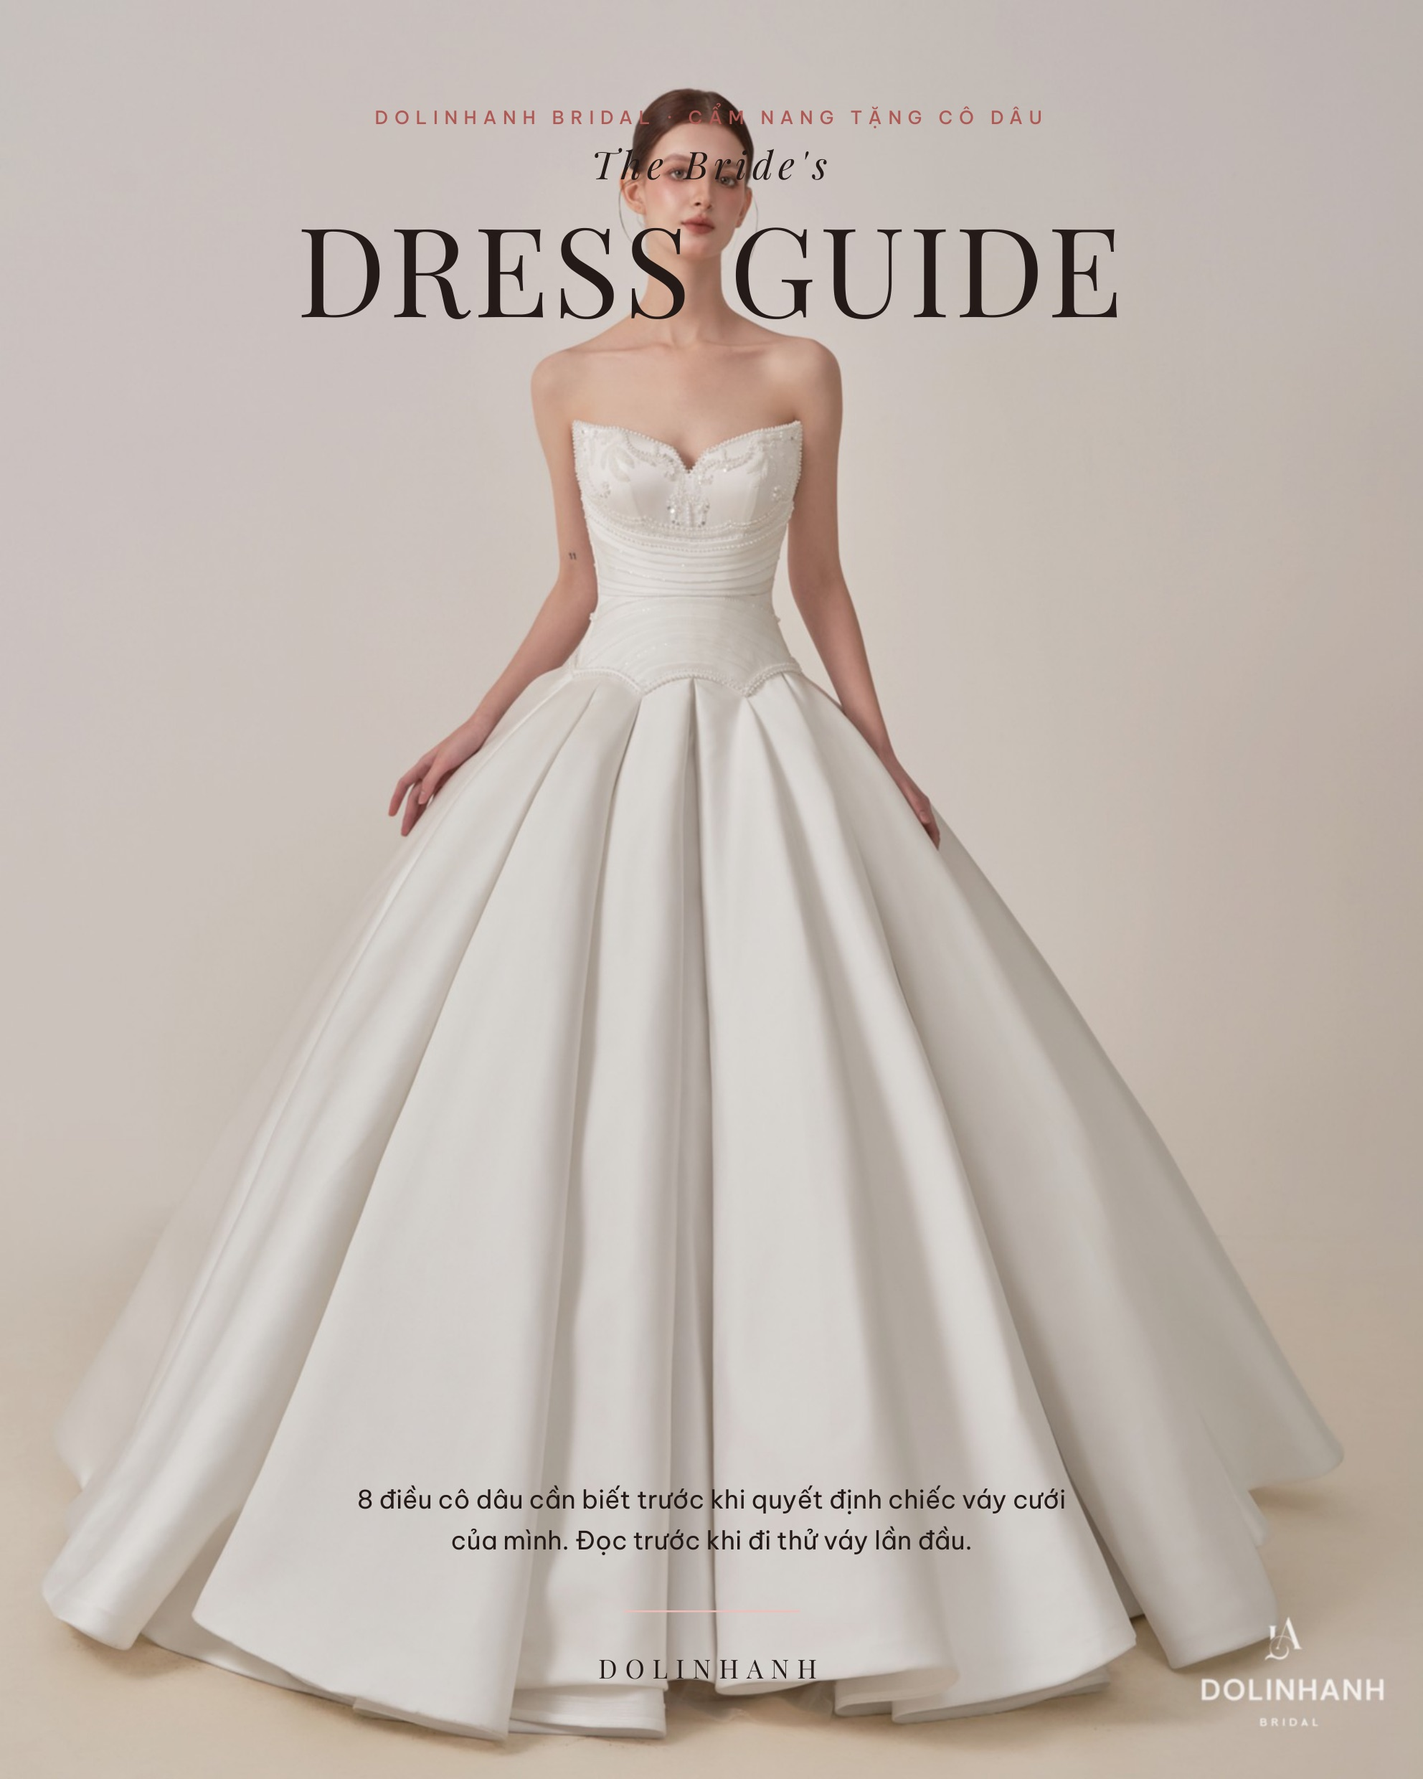
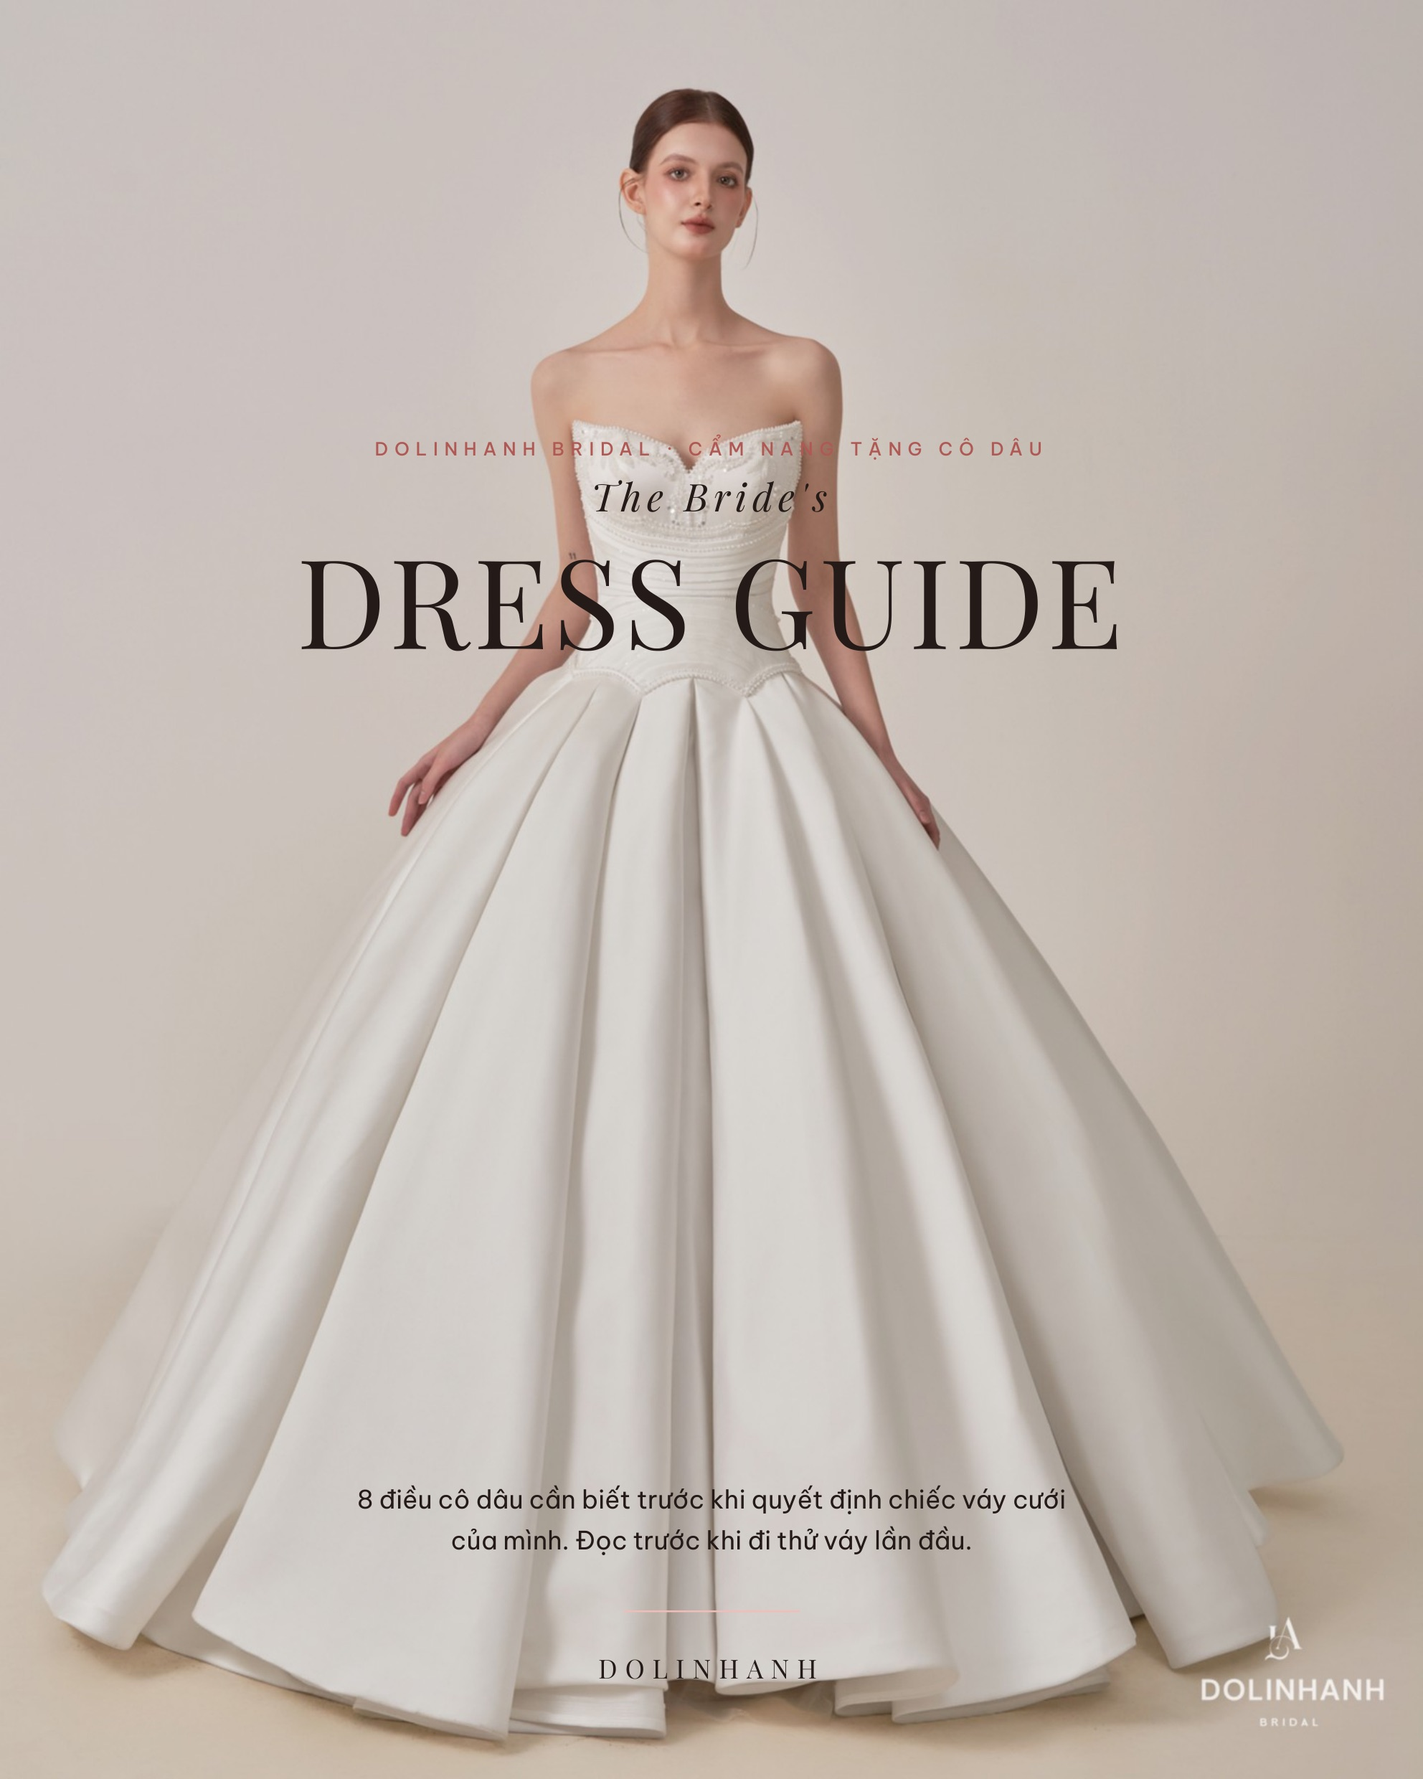
Ebook: bia - day khoi chu xuong duoi cam, khong de len mat co dau (ca A4 va dien thoai) (v y290931)

diff --git a/dress-guide.html b/dress-guide.html
@@ -4,7 +4,7 @@
 <meta charset="utf-8">
 <meta name="viewport" content="width=device-width,initial-scale=1">
 <meta name="description" content="Cẩm nang tặng cô dâu: 7 điều cần biết trước khi chọn váy cưới — Dolinhanh Bridal.">
-<script>window.__ANH__=["dress-guide/t01.jpg?v=y290755", "dress-guide/t02.jpg?v=y290755", "dress-guide/t03.jpg?v=y290755", "dress-guide/t04.jpg?v=y290755", "dress-guide/t05.jpg?v=y290755", "dress-guide/t06.jpg?v=y290755", "dress-guide/t07.jpg?v=y290755", "dress-guide/t08.jpg?v=y290755", "dress-guide/t09.jpg?v=y290755", "dress-guide/t10.jpg?v=y290755", "dress-guide/t11.jpg?v=y290755", "dress-guide/t12.jpg?v=y290755", "dress-guide/t13.jpg?v=y290755", "dress-guide/t14.jpg?v=y290755", "dress-guide/t15.jpg?v=y290755", "dress-guide/t16.jpg?v=y290755", "dress-guide/t17.jpg?v=y290755", "dress-guide/t18.jpg?v=y290755", "dress-guide/t19.jpg?v=y290755", "dress-guide/t20.jpg?v=y290755", "dress-guide/t21.jpg?v=y290755", "dress-guide/t22.jpg?v=y290755", "dress-guide/t23.jpg?v=y290755", "dress-guide/t24.jpg?v=y290755", "dress-guide/t25.jpg?v=y290755", "dress-guide/t26.jpg?v=y290755", "dress-guide/t27.jpg?v=y290755"];window.__ANH_DT__=["dress-guide-dt/t001.jpg?v=y290755", "dress-guide-dt/t002.jpg?v=y290755", "dress-guide-dt/t003.jpg?v=y290755", "dress-guide-dt/t004.jpg?v=y290755", "dress-guide-dt/t005.jpg?v=y290755", "dress-guide-dt/t006.jpg?v=y290755", "dress-guide-dt/t007.jpg?v=y290755", "dress-guide-dt/t008.jpg?v=y290755", "dress-guide-dt/t009.jpg?v=y290755", "dress-guide-dt/t010.jpg?v=y290755", "dress-guide-dt/t011.jpg?v=y290755", "dress-guide-dt/t012.jpg?v=y290755", "dress-guide-dt/t013.jpg?v=y290755", "dress-guide-dt/t014.jpg?v=y290755", "dress-guide-dt/t015.jpg?v=y290755", "dress-guide-dt/t016.jpg?v=y290755", "dress-guide-dt/t017.jpg?v=y290755", "dress-guide-dt/t018.jpg?v=y290755", "dress-guide-dt/t019.jpg?v=y290755", "dress-guide-dt/t020.jpg?v=y290755", "dress-guide-dt/t021.jpg?v=y290755", "dress-guide-dt/t022.jpg?v=y290755", "dress-guide-dt/t023.jpg?v=y290755", "dress-guide-dt/t024.jpg?v=y290755", "dress-guide-dt/t025.jpg?v=y290755", "dress-guide-dt/t026.jpg?v=y290755", "dress-guide-dt/t027.jpg?v=y290755", "dress-guide-dt/t028.jpg?v=y290755", "dress-guide-dt/t029.jpg?v=y290755", "dress-guide-dt/t030.jpg?v=y290755", "dress-guide-dt/t031.jpg?v=y290755", "dress-guide-dt/t032.jpg?v=y290755", "dress-guide-dt/t033.jpg?v=y290755", "dress-guide-dt/t034.jpg?v=y290755", "dress-guide-dt/t035.jpg?v=y290755", "dress-guide-dt/t036.jpg?v=y290755", "dress-guide-dt/t037.jpg?v=y290755", "dress-guide-dt/t038.jpg?v=y290755", "dress-guide-dt/t039.jpg?v=y290755", "dress-guide-dt/t040.jpg?v=y290755", "dress-guide-dt/t041.jpg?v=y290755", "dress-guide-dt/t042.jpg?v=y290755", "dress-guide-dt/t043.jpg?v=y290755", "dress-guide-dt/t044.jpg?v=y290755", "dress-guide-dt/t045.jpg?v=y290755", "dress-guide-dt/t046.jpg?v=y290755", "dress-guide-dt/t047.jpg?v=y290755", "dress-guide-dt/t048.jpg?v=y290755", "dress-guide-dt/t049.jpg?v=y290755"];window.__TI_DT__=1.777;window.__DIEM_DT__=[{"nhan": "Đọc vị bản thân", "ten": "Làm bài trắc nghiệm tại đây", "mo": "", "quiz": true, "p": 6, "x": 0.2713, "y": 0.1401, "w": 0.4323, "h": 0.0265}, {"nhan": "Chuẩn bị trước buổi thử", "ten": "Đồ lót nào mặc được?", "mo": "Nguyên tắc chung: màu nude, không quai, không gọng to, không đường viền. Bốn kiểu trong hình đều dùng được cho gần như mọi mẫu váy. Phần lớn váy cưới đã có corset nâng và mút đệm ngực khâu sẵn — nhiều cô dâu chỉ mặc quần lót nude là đủ.", "p": 10, "x": 0.213, "y": 0.2374, "w": 0.2757, "h": 0.0278, "toi": 12, "anh": "dress-guide/hs-dolot.jpg?v=y290755"}, {"nhan": "Chuẩn bị trước buổi thử", "ten": "Ngày cưới nên mang mấy đôi?", "mo": "Ba đôi là đủ cho mọi tình huống. Đế bánh mì đi trong váy xoè — tùng váy che kín dép, đứng cả buổi không mỏi chân. Cao gót cho những mẫu hở chân như đuôi cá hay xẻ tà, gót 5–7cm là vừa. Và một đôi đế thấp để trong phòng chờ, khi chân đã mỏi thì thay ra.", "p": 10, "x": 0.138, "y": 0.3438, "w": 0.7211, "h": 0.0571, "toi": 14, "anh": "dress-guide/hs-giay.jpg?v=y290755"}, {"nhan": "Chuẩn bị trước buổi thử", "ten": "Vì sao lại là 5 mẫu?", "mo": "Năm mẫu vừa đủ để so bốn dáng cơ bản và thêm một mẫu “lạ” cho biết, mà không loạn. Gửi trước danh sách cho shop để váy được treo sẵn — đỡ mất ba mươi phút đầu buổi chỉ để đi tìm váy.", "p": 10, "x": 0.5176, "y": 0.6563, "w": 0.3832, "h": 0.0278}, {"nhan": "Bước tiếp theo", "ten": "Cẩm nang cưới — 99.000đ", "mo": "Năm mươi tám trang, sáu chặng, mỗi chặng một màu và có ảnh riêng. Mở đầu bằng bài trắc nghiệm tính cách theo DISC cho cả hai người, rồi tới 30 câu hai người phải hỏi nhau, hai gia đình, sáu tháng chuẩn bị (gồm trọn phần chọn váy), ngày cưới, và phần sau đám cưới.", "lien": "https://dolinhanh-bridal.github.io/web-thu/mua-planner.html", "nutChu": "Xem thử vài trang", "p": 48, "x": 0.1372, "y": 0.4388, "w": 0.2862, "h": 0.1902, "anh": "dress-guide/hs-planner.jpg?v=y290755"}, {"nhan": "Bước tiếp theo", "ten": "Nhắn Zalo để nhận file", "mo": "Chuyển khoản xong, bạn nhắn ảnh chụp màn hình tới Zalo 035 995 0588. Dolinhanh gửi lại file PDF và đường dẫn đọc trên điện thoại ngay trong ngày.", "lien": "https://zalo.me/0359950588", "nutChu": "Mở Zalo 035 995 0588", "p": 48, "x": 0.3828, "y": 0.7382, "w": 0.2156, "h": 0.0251}];window.__DIEM__=[{"nhan": "Đọc vị bản thân", "ten": "Làm bài trắc nghiệm tại đây", "mo": "", "quiz": true, "p": 5, "x": 0.2013, "y": 0.153, "w": 0.2397, "h": 0.0207}, {"nhan": "Chuẩn bị trước buổi thử", "ten": "Đồ lót nào mặc được?", "mo": "Nguyên tắc chung: màu nude, không quai, không gọng to, không đường viền. Bốn kiểu trong hình đều dùng được cho gần như mọi mẫu váy. Phần lớn váy cưới đã có corset nâng và mút đệm ngực khâu sẵn — nhiều cô dâu chỉ mặc quần lót nude là đủ.", "p": 7, "x": 0.1707, "y": 0.2032, "w": 0.1469, "h": 0.0211, "toi": 8, "anh": "dress-guide/hs-dolot.jpg?v=y290755"}, {"nhan": "Chuẩn bị trước buổi thử", "ten": "Ngày cưới nên mang mấy đôi?", "mo": "Ba đôi là đủ cho mọi tình huống. Đế bánh mì đi trong váy xoè — tùng váy che kín dép, đứng cả buổi không mỏi chân. Cao gót cho những mẫu hở chân như đuôi cá hay xẻ tà, gót 5–7cm là vừa. Và một đôi đế thấp để trong phòng chờ, khi chân đã mỏi thì thay ra.", "p": 7, "x": 0.2229, "y": 0.2616, "w": 0.4041, "h": 0.0211, "toi": 9, "anh": "dress-guide/hs-giay.jpg?v=y290755"}, {"nhan": "Chuẩn bị trước buổi thử", "ten": "Vì sao lại là 5 mẫu?", "mo": "Năm mẫu vừa đủ để so bốn dáng cơ bản và thêm một mẫu “lạ” cho biết, mà không loạn. Gửi trước danh sách cho shop để váy được treo sẵn — đỡ mất ba mươi phút đầu buổi chỉ để đi tìm váy.", "p": 7, "x": 0.333, "y": 0.4108, "w": 0.2042, "h": 0.0211}, {"nhan": "Bước tiếp theo", "ten": "Cẩm nang cưới — 99.000đ", "mo": "Năm mươi tám trang, sáu chặng, mỗi chặng một màu và có ảnh riêng. Mở đầu bằng bài trắc nghiệm tính cách theo DISC cho cả hai người, rồi tới 30 câu hai người phải hỏi nhau, hai gia đình, sáu tháng chuẩn bị (gồm trọn phần chọn váy), ngày cưới, và phần sau đám cưới.", "lien": "https://dolinhanh-bridal.github.io/web-thu/mua-planner.html", "nutChu": "Xem thử vài trang", "p": 26, "x": 0.1248, "y": 0.7732, "w": 0.1525, "h": 0.1442, "anh": "dress-guide/hs-planner.jpg?v=y290755"}, {"nhan": "Bước tiếp theo", "ten": "Nhắn Zalo để nhận file", "mo": "Chuyển khoản xong, bạn nhắn ảnh chụp màn hình tới Zalo 035 995 0588. Dolinhanh gửi lại file PDF và đường dẫn đọc trên điện thoại ngay trong ngày.", "lien": "https://zalo.me/0359950588", "nutChu": "Mở Zalo 035 995 0588", "p": 26, "x": 0.3035, "y": 0.858, "w": 0.1149, "h": 0.0191}];</script>
+<script>window.__ANH__=["dress-guide/t01.jpg?v=y290931", "dress-guide/t02.jpg?v=y290931", "dress-guide/t03.jpg?v=y290931", "dress-guide/t04.jpg?v=y290931", "dress-guide/t05.jpg?v=y290931", "dress-guide/t06.jpg?v=y290931", "dress-guide/t07.jpg?v=y290931", "dress-guide/t08.jpg?v=y290931", "dress-guide/t09.jpg?v=y290931", "dress-guide/t10.jpg?v=y290931", "dress-guide/t11.jpg?v=y290931", "dress-guide/t12.jpg?v=y290931", "dress-guide/t13.jpg?v=y290931", "dress-guide/t14.jpg?v=y290931", "dress-guide/t15.jpg?v=y290931", "dress-guide/t16.jpg?v=y290931", "dress-guide/t17.jpg?v=y290931", "dress-guide/t18.jpg?v=y290931", "dress-guide/t19.jpg?v=y290931", "dress-guide/t20.jpg?v=y290931", "dress-guide/t21.jpg?v=y290931", "dress-guide/t22.jpg?v=y290931", "dress-guide/t23.jpg?v=y290931", "dress-guide/t24.jpg?v=y290931", "dress-guide/t25.jpg?v=y290931", "dress-guide/t26.jpg?v=y290931", "dress-guide/t27.jpg?v=y290931"];window.__ANH_DT__=["dress-guide-dt/t001.jpg?v=y290931", "dress-guide-dt/t002.jpg?v=y290931", "dress-guide-dt/t003.jpg?v=y290931", "dress-guide-dt/t004.jpg?v=y290931", "dress-guide-dt/t005.jpg?v=y290931", "dress-guide-dt/t006.jpg?v=y290931", "dress-guide-dt/t007.jpg?v=y290931", "dress-guide-dt/t008.jpg?v=y290931", "dress-guide-dt/t009.jpg?v=y290931", "dress-guide-dt/t010.jpg?v=y290931", "dress-guide-dt/t011.jpg?v=y290931", "dress-guide-dt/t012.jpg?v=y290931", "dress-guide-dt/t013.jpg?v=y290931", "dress-guide-dt/t014.jpg?v=y290931", "dress-guide-dt/t015.jpg?v=y290931", "dress-guide-dt/t016.jpg?v=y290931", "dress-guide-dt/t017.jpg?v=y290931", "dress-guide-dt/t018.jpg?v=y290931", "dress-guide-dt/t019.jpg?v=y290931", "dress-guide-dt/t020.jpg?v=y290931", "dress-guide-dt/t021.jpg?v=y290931", "dress-guide-dt/t022.jpg?v=y290931", "dress-guide-dt/t023.jpg?v=y290931", "dress-guide-dt/t024.jpg?v=y290931", "dress-guide-dt/t025.jpg?v=y290931", "dress-guide-dt/t026.jpg?v=y290931", "dress-guide-dt/t027.jpg?v=y290931", "dress-guide-dt/t028.jpg?v=y290931", "dress-guide-dt/t029.jpg?v=y290931", "dress-guide-dt/t030.jpg?v=y290931", "dress-guide-dt/t031.jpg?v=y290931", "dress-guide-dt/t032.jpg?v=y290931", "dress-guide-dt/t033.jpg?v=y290931", "dress-guide-dt/t034.jpg?v=y290931", "dress-guide-dt/t035.jpg?v=y290931", "dress-guide-dt/t036.jpg?v=y290931", "dress-guide-dt/t037.jpg?v=y290931", "dress-guide-dt/t038.jpg?v=y290931", "dress-guide-dt/t039.jpg?v=y290931", "dress-guide-dt/t040.jpg?v=y290931", "dress-guide-dt/t041.jpg?v=y290931", "dress-guide-dt/t042.jpg?v=y290931", "dress-guide-dt/t043.jpg?v=y290931", "dress-guide-dt/t044.jpg?v=y290931", "dress-guide-dt/t045.jpg?v=y290931", "dress-guide-dt/t046.jpg?v=y290931", "dress-guide-dt/t047.jpg?v=y290931", "dress-guide-dt/t048.jpg?v=y290931", "dress-guide-dt/t049.jpg?v=y290931"];window.__TI_DT__=1.777;window.__DIEM_DT__=[{"nhan": "Đọc vị bản thân", "ten": "Làm bài trắc nghiệm tại đây", "mo": "", "quiz": true, "p": 6, "x": 0.2713, "y": 0.1401, "w": 0.4323, "h": 0.0265}, {"nhan": "Chuẩn bị trước buổi thử", "ten": "Đồ lót nào mặc được?", "mo": "Nguyên tắc chung: màu nude, không quai, không gọng to, không đường viền. Bốn kiểu trong hình đều dùng được cho gần như mọi mẫu váy. Phần lớn váy cưới đã có corset nâng và mút đệm ngực khâu sẵn — nhiều cô dâu chỉ mặc quần lót nude là đủ.", "p": 10, "x": 0.213, "y": 0.2374, "w": 0.2757, "h": 0.0278, "toi": 12, "anh": "dress-guide/hs-dolot.jpg?v=y290931"}, {"nhan": "Chuẩn bị trước buổi thử", "ten": "Ngày cưới nên mang mấy đôi?", "mo": "Ba đôi là đủ cho mọi tình huống. Đế bánh mì đi trong váy xoè — tùng váy che kín dép, đứng cả buổi không mỏi chân. Cao gót cho những mẫu hở chân như đuôi cá hay xẻ tà, gót 5–7cm là vừa. Và một đôi đế thấp để trong phòng chờ, khi chân đã mỏi thì thay ra.", "p": 10, "x": 0.138, "y": 0.3438, "w": 0.7211, "h": 0.0571, "toi": 14, "anh": "dress-guide/hs-giay.jpg?v=y290931"}, {"nhan": "Chuẩn bị trước buổi thử", "ten": "Vì sao lại là 5 mẫu?", "mo": "Năm mẫu vừa đủ để so bốn dáng cơ bản và thêm một mẫu “lạ” cho biết, mà không loạn. Gửi trước danh sách cho shop để váy được treo sẵn — đỡ mất ba mươi phút đầu buổi chỉ để đi tìm váy.", "p": 10, "x": 0.5176, "y": 0.6563, "w": 0.3832, "h": 0.0278}, {"nhan": "Bước tiếp theo", "ten": "Cẩm nang cưới — 99.000đ", "mo": "Năm mươi tám trang, sáu chặng, mỗi chặng một màu và có ảnh riêng. Mở đầu bằng bài trắc nghiệm tính cách theo DISC cho cả hai người, rồi tới 30 câu hai người phải hỏi nhau, hai gia đình, sáu tháng chuẩn bị (gồm trọn phần chọn váy), ngày cưới, và phần sau đám cưới.", "lien": "https://dolinhanh-bridal.github.io/web-thu/mua-planner.html", "nutChu": "Xem thử vài trang", "p": 48, "x": 0.1372, "y": 0.4388, "w": 0.2862, "h": 0.1902, "anh": "dress-guide/hs-planner.jpg?v=y290931"}, {"nhan": "Bước tiếp theo", "ten": "Nhắn Zalo để nhận file", "mo": "Chuyển khoản xong, bạn nhắn ảnh chụp màn hình tới Zalo 035 995 0588. Dolinhanh gửi lại file PDF và đường dẫn đọc trên điện thoại ngay trong ngày.", "lien": "https://zalo.me/0359950588", "nutChu": "Mở Zalo 035 995 0588", "p": 48, "x": 0.3828, "y": 0.7382, "w": 0.2156, "h": 0.0251}];window.__DIEM__=[{"nhan": "Đọc vị bản thân", "ten": "Làm bài trắc nghiệm tại đây", "mo": "", "quiz": true, "p": 5, "x": 0.2013, "y": 0.153, "w": 0.2397, "h": 0.0207}, {"nhan": "Chuẩn bị trước buổi thử", "ten": "Đồ lót nào mặc được?", "mo": "Nguyên tắc chung: màu nude, không quai, không gọng to, không đường viền. Bốn kiểu trong hình đều dùng được cho gần như mọi mẫu váy. Phần lớn váy cưới đã có corset nâng và mút đệm ngực khâu sẵn — nhiều cô dâu chỉ mặc quần lót nude là đủ.", "p": 7, "x": 0.1707, "y": 0.2032, "w": 0.1469, "h": 0.0211, "toi": 8, "anh": "dress-guide/hs-dolot.jpg?v=y290931"}, {"nhan": "Chuẩn bị trước buổi thử", "ten": "Ngày cưới nên mang mấy đôi?", "mo": "Ba đôi là đủ cho mọi tình huống. Đế bánh mì đi trong váy xoè — tùng váy che kín dép, đứng cả buổi không mỏi chân. Cao gót cho những mẫu hở chân như đuôi cá hay xẻ tà, gót 5–7cm là vừa. Và một đôi đế thấp để trong phòng chờ, khi chân đã mỏi thì thay ra.", "p": 7, "x": 0.2229, "y": 0.2616, "w": 0.4041, "h": 0.0211, "toi": 9, "anh": "dress-guide/hs-giay.jpg?v=y290931"}, {"nhan": "Chuẩn bị trước buổi thử", "ten": "Vì sao lại là 5 mẫu?", "mo": "Năm mẫu vừa đủ để so bốn dáng cơ bản và thêm một mẫu “lạ” cho biết, mà không loạn. Gửi trước danh sách cho shop để váy được treo sẵn — đỡ mất ba mươi phút đầu buổi chỉ để đi tìm váy.", "p": 7, "x": 0.333, "y": 0.4108, "w": 0.2042, "h": 0.0211}, {"nhan": "Bước tiếp theo", "ten": "Cẩm nang cưới — 99.000đ", "mo": "Năm mươi tám trang, sáu chặng, mỗi chặng một màu và có ảnh riêng. Mở đầu bằng bài trắc nghiệm tính cách theo DISC cho cả hai người, rồi tới 30 câu hai người phải hỏi nhau, hai gia đình, sáu tháng chuẩn bị (gồm trọn phần chọn váy), ngày cưới, và phần sau đám cưới.", "lien": "https://dolinhanh-bridal.github.io/web-thu/mua-planner.html", "nutChu": "Xem thử vài trang", "p": 26, "x": 0.1248, "y": 0.7732, "w": 0.1525, "h": 0.1442, "anh": "dress-guide/hs-planner.jpg?v=y290931"}, {"nhan": "Bước tiếp theo", "ten": "Nhắn Zalo để nhận file", "mo": "Chuyển khoản xong, bạn nhắn ảnh chụp màn hình tới Zalo 035 995 0588. Dolinhanh gửi lại file PDF và đường dẫn đọc trên điện thoại ngay trong ngày.", "lien": "https://zalo.me/0359950588", "nutChu": "Mở Zalo 035 995 0588", "p": 26, "x": 0.3035, "y": 0.858, "w": 0.1149, "h": 0.0191}];</script>
 </head>
 <body>
 <title>The Bride's Dress Guide</title>

diff --git a/dress-guide-doc.html b/dress-guide-doc.html
@@ -76,7 +76,7 @@
   .bia{position:relative;width:210mm;height:262.5mm;overflow:hidden;page-break-after:always;background:var(--giay)}
   .bia img{position:absolute;inset:0;width:100%;height:100%;object-fit:cover;object-position:50% 30%}
   .bia .phu-toi{position:absolute;inset:0;background:linear-gradient(180deg,rgba(36,27,25,.30) 0%,rgba(36,27,25,.04) 34%,rgba(36,27,25,.30) 72%,rgba(36,27,25,.66) 100%)}
-  .bia .noi{position:absolute;inset:0;padding:15mm 16mm 13mm;display:flex;flex-direction:column;align-items:center;text-align:center;color:var(--muc)}
+  .bia .noi{position:absolute;inset:0;padding:64mm 16mm 13mm;display:flex;flex-direction:column;align-items:center;text-align:center;color:var(--muc)}
   .bia .tren{font-family:var(--sans);font-size:7.6pt;font-weight:500;letter-spacing:.34em;text-transform:uppercase;color:var(--hong-chu);text-align:center}
   .bia .giua{display:contents}
   .bia h1{font-family:var(--serif);color:var(--muc);font-size:52pt;line-height:1;letter-spacing:.03em;margin-top:2mm;white-space:nowrap}
